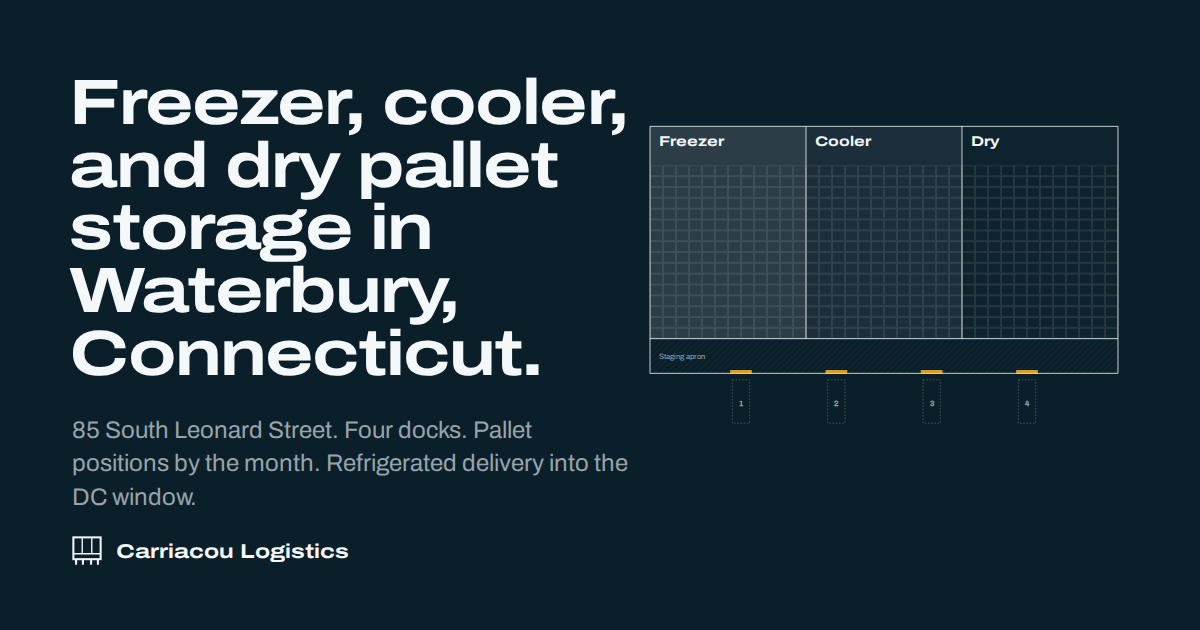
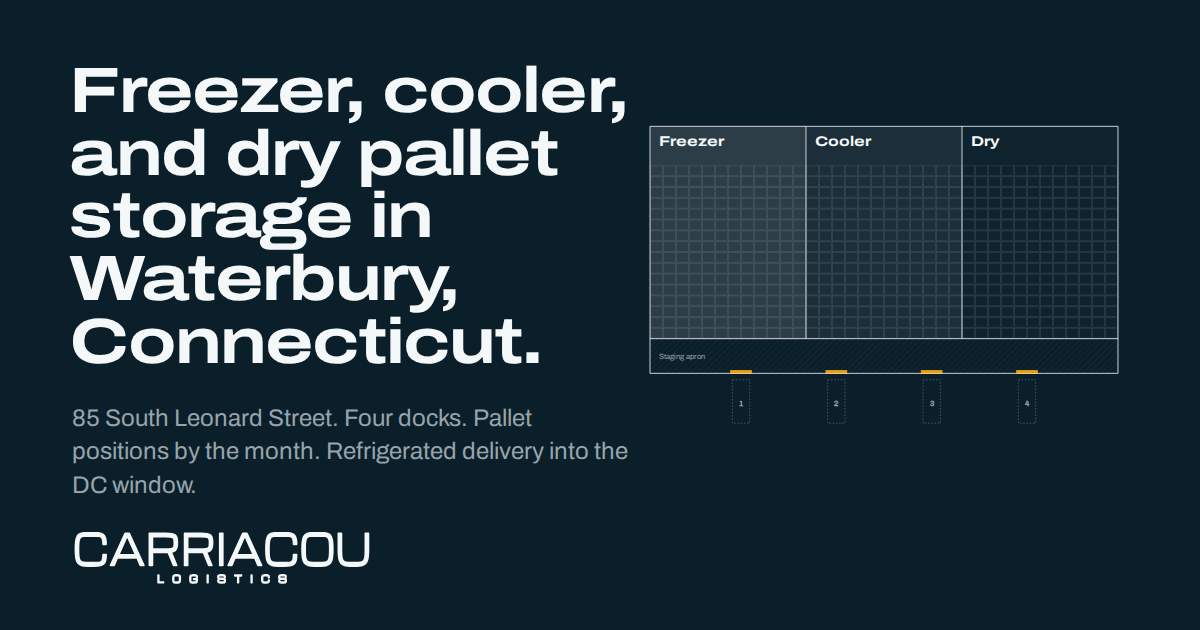
Set the Carriacou wordmark across the site
Inline the wordmark as currentColor SVG in the header, footer, 404,
confirmation page, and OG image, and derive the favicon set from its C.
Vectors are a typeset stand-in condensed to the supplied mark's
proportions until the master outlines arrive; both paths are isolated
in assets/ for a direct swap.

Claude-Session: https://claude.ai/code/session_01CXd4uA4vV5vAFBjLYiJEyh

Changed region(s): [[0.0617, 0.0905, 0.5242, 0.6032], [0.0617, 0.6333, 0.5242, 0.8143], [0.0617, 0.8444, 0.3083, 0.9349]]

diff --git a/carriacou/index.html b/carriacou/index.html
@@ -125,8 +125,9 @@ b,strong{font-weight:500}
 /* Header */
 .hdr{position:sticky;top:0;z-index:50;height:var(--hdr);background:var(--frost);border-bottom:1px solid var(--line)}
 .hdr .wrap{height:100%;display:flex;align-items:center;gap:var(--s4)}
-.wordmark{display:flex;align-items:center;gap:10px;font-size:14px;letter-spacing:-.01em;text-decoration:none;white-space:nowrap}
-.wordmark svg{width:22px;height:22px;flex:none}
+.wordmark{display:flex;align-items:center;text-decoration:none;color:var(--deep)}
+.wordmark .logo{height:20px;width:auto;display:block}
+@media(max-width:767px){.wordmark .logo{height:15px}}
 .readout{display:flex;align-items:baseline;gap:var(--s2);margin-left:auto;font-size:14px;white-space:nowrap;min-width:0}
 .readout .ro-label{color:var(--slate)}
 .readout .ro-zone{font-weight:500;min-width:6ch}
@@ -432,6 +433,7 @@ legend{padding:0;font-weight:500;margin-bottom:var(--s2)}
 .ftr-grid{display:grid;grid-template-columns:minmax(0,1fr);gap:var(--s5)}
 @media(min-width:768px){.ftr-grid{grid-template-columns:repeat(4,minmax(0,1fr));gap:var(--s5)}}
 .ftr h2{font-size:14px;font-weight:500;color:var(--galv);margin-bottom:var(--s2)}
+.ftr .logo-lockup{width:min(100%,220px);height:auto;color:var(--frost);margin-bottom:var(--s3)}
 .ftr address{font-style:normal;font-variant-numeric:tabular-nums}
 .ftr a{text-decoration:none}
 .ftr a:hover{text-decoration:underline;text-underline-offset:.18em}
@@ -486,8 +488,8 @@ legend{padding:0;font-weight:500;margin-bottom:var(--s2)}
 <header class="hdr">
   <div class="wrap">
     <a class="wordmark" href="#top" aria-label="Carriacou Logistics, home">
-      <svg viewBox="0 0 22 22" aria-hidden="true" focusable="false"><rect x="1" y="1" width="20" height="16" fill="none" stroke="currentColor" stroke-width="1.5"/><path d="M7.5 1v12M14.5 1v12M1 13h20" fill="none" stroke="currentColor" stroke-width="1"/><path d="M3 17v4M8 17v4M14 17v4M19 17v4" stroke="currentColor" stroke-width="1.5"/></svg>
-      <span>Carriacou Logistics</span>
+      <svg class="logo" viewBox="-4 -4 934 108" aria-hidden="true" focusable="false"><g fill="currentColor" stroke="currentColor" stroke-width="5" stroke-linejoin="round"><path d="M6.5 51.3V48.7Q6.5 35.4 7.5 26.4Q8.5 17.4 11.0 11.7Q13.5 6.1 17.8 3.1Q22.1 0.1 28.6 -1.0Q35.1 -2.1 44.2 -2.1H64.7Q75.2 -2.1 82.3 -0.8Q89.5 0.5 93.9 4.2Q98.3 7.9 100.3 15.2Q102.3 22.5 102.3 34.4H92.5Q92.5 25.0 91.2 19.8Q89.9 14.5 86.8 12.2Q83.6 9.8 78.3 9.3Q72.9 8.7 64.7 8.7H44.2Q37.0 8.7 32.0 9.3Q27.0 9.8 23.9 11.8Q20.8 13.8 19.1 18.1Q17.5 22.4 16.9 29.8Q16.3 37.2 16.3 48.7V51.3Q16.3 62.4 16.9 69.7Q17.5 77.0 19.1 81.3Q20.8 85.7 23.9 87.8Q27.0 90.0 32.0 90.6Q37.0 91.3 44.2 91.3H64.7Q72.9 91.3 78.3 90.8Q83.6 90.4 86.8 88.2Q89.9 85.9 91.2 80.8Q92.5 75.6 92.5 66.2H102.3Q102.3 78.2 100.3 85.4Q98.3 92.5 93.9 96.1Q89.5 99.7 82.3 100.9Q75.2 102.1 64.7 102.1H44.2Q32.8 102.1 25.4 100.1Q18.1 98.1 13.9 92.8Q9.8 87.4 8.2 77.4Q6.5 67.4 6.5 51.3Z M115.8 100.0 161.3 0.0H174.3L219.8 100.0H208.5L198.7 77.1H137.0L127.2 100.0ZM141.8 66.7H193.8L167.8 8.3Z M236.7 0.0H288.9Q300.3 0.0 307.3 1.3Q314.3 2.6 317.9 5.8Q321.5 9.0 322.8 14.5Q324.1 20.1 324.1 28.5V31.1Q324.1 38.9 322.6 44.6Q321.2 50.2 317.1 53.7Q312.9 57.2 304.9 58.6L321.8 100.0H312.1L295.5 59.5Q294.5 59.6 293.4 59.6Q292.3 59.6 291.1 59.6H246.5V100.0H236.7ZM246.5 48.8H289.6Q298.3 48.8 303.3 48.0Q308.3 47.3 310.6 45.4Q313.0 43.5 313.7 40.0Q314.3 36.6 314.3 31.1V28.5Q314.3 22.3 313.4 18.7Q312.5 15.2 309.7 13.5Q307.0 11.8 301.6 11.3Q296.1 10.8 287.0 10.8H246.5Z M346.4 0.0H398.6Q410.0 0.0 417.0 1.3Q424.0 2.6 427.6 5.8Q431.2 9.0 432.4 14.5Q433.7 20.1 433.7 28.5V31.1Q433.7 38.9 432.3 44.6Q430.8 50.2 426.7 53.7Q422.6 57.2 414.5 58.6L431.5 100.0H421.7L405.1 59.5Q404.1 59.6 403.0 59.6Q401.9 59.6 400.8 59.6H356.1V100.0H346.4ZM356.1 48.8H399.2Q407.9 48.8 412.9 48.0Q417.9 47.3 420.3 45.4Q422.6 43.5 423.3 40.0Q424.0 36.6 424.0 31.1V28.5Q424.0 22.3 423.0 18.7Q422.1 15.2 419.4 13.5Q416.6 11.8 411.2 11.3Q405.8 10.8 396.7 10.8H356.1Z M455.8 100.0V0.0H465.6V100.0Z M482.2 100.0 527.7 0.0H540.7L586.2 100.0H574.9L565.1 77.1H503.4L493.6 100.0ZM508.2 66.7H560.2L534.2 8.3Z M599.7 51.3V48.7Q599.7 35.4 600.7 26.4Q601.7 17.4 604.2 11.7Q606.7 6.1 611.0 3.1Q615.2 0.1 621.7 -1.0Q628.2 -2.1 637.4 -2.1H657.8Q668.3 -2.1 675.5 -0.8Q682.7 0.5 687.1 4.2Q691.5 7.9 693.4 15.2Q695.4 22.5 695.4 34.4H685.7Q685.7 25.0 684.4 19.8Q683.0 14.5 679.9 12.2Q676.8 9.8 671.4 9.3Q666.0 8.7 657.8 8.7H637.4Q630.1 8.7 625.1 9.3Q620.2 9.8 617.0 11.8Q613.9 13.8 612.3 18.1Q610.6 22.4 610.0 29.8Q609.4 37.2 609.4 48.7V51.3Q609.4 62.4 610.0 69.7Q610.6 77.0 612.3 81.3Q613.9 85.7 617.0 87.8Q620.2 90.0 625.1 90.6Q630.1 91.3 637.4 91.3H657.8Q666.0 91.3 671.4 90.8Q676.8 90.4 679.9 88.2Q683.0 85.9 684.4 80.8Q685.7 75.6 685.7 66.2H695.4Q695.4 78.2 693.4 85.4Q691.5 92.5 687.1 96.1Q682.7 99.7 675.5 100.9Q668.3 102.1 657.8 102.1H637.4Q626.0 102.1 618.6 100.1Q611.2 98.1 607.1 92.8Q603.0 87.4 601.3 77.4Q599.7 67.4 599.7 51.3Z M750.0 102.1Q738.6 102.1 731.2 100.1Q723.8 98.1 719.7 92.8Q715.5 87.4 713.9 77.4Q712.2 67.4 712.2 51.3V48.7Q712.2 35.4 713.3 26.4Q714.3 17.4 716.8 11.7Q719.3 6.1 723.5 3.1Q727.8 0.1 734.3 -1.0Q740.8 -2.1 750.0 -2.1H770.4Q779.6 -2.1 786.1 -1.0Q792.6 0.1 796.9 3.1Q801.2 6.1 803.7 11.7Q806.1 17.4 807.2 26.4Q808.2 35.4 808.2 48.7V51.3Q808.2 67.4 806.5 77.4Q804.9 87.4 800.7 92.8Q796.6 98.1 789.2 100.1Q781.9 102.1 770.4 102.1ZM750.0 91.3H770.4Q777.7 91.3 782.7 90.6Q787.7 90.0 790.8 87.8Q793.9 85.7 795.6 81.3Q797.2 77.0 797.8 69.7Q798.4 62.4 798.4 51.3V48.7Q798.4 37.2 797.8 29.8Q797.2 22.4 795.6 18.1Q793.9 13.8 790.8 11.8Q787.7 9.8 782.7 9.3Q777.7 8.7 770.4 8.7H750.0Q742.7 8.7 737.7 9.3Q732.8 9.8 729.6 11.8Q726.5 13.8 724.9 18.1Q723.2 22.4 722.6 29.8Q722.0 37.2 722.0 48.7V51.3Q722.0 62.4 722.6 69.7Q723.2 77.0 724.9 81.3Q726.5 85.7 729.6 87.8Q732.8 90.0 737.7 90.6Q742.7 91.3 750.0 91.3Z M863.0 102.1Q851.6 102.1 844.2 100.1Q836.8 98.1 832.7 92.8Q828.6 87.4 826.9 77.4Q825.2 67.4 825.2 51.3V0.0H835.0V51.3Q835.0 62.4 835.6 69.7Q836.2 77.0 837.9 81.3Q839.6 85.7 842.7 87.8Q845.8 90.0 850.8 90.6Q855.8 91.3 863.0 91.3H881.4Q888.6 91.3 893.6 90.6Q898.5 90.0 901.7 87.8Q904.8 85.7 906.4 81.3Q908.1 77.0 908.7 69.7Q909.3 62.4 909.3 51.3V0.0H919.1V51.3Q919.1 67.4 917.4 77.4Q915.8 87.4 911.7 92.8Q907.5 98.1 900.2 100.1Q892.8 102.1 881.4 102.1Z"/></g></svg>
+      <span class="sr">Carriacou Logistics</span>
     </a>
     <div class="readout" id="readout" aria-live="off">
       <span class="ro-label">In view</span>
@@ -966,7 +968,8 @@ legend{padding:0;font-weight:500;margin-bottom:var(--s2)}
   <div class="wrap">
     <div class="ftr-grid">
       <div>
-        <h2>Carriacou Logistics</h2>
+        <h2 class="sr">Carriacou Logistics</h2>
+        <svg class="logo-lockup" viewBox="-4 -4 934 168" aria-hidden="true" focusable="false"><g fill="currentColor" stroke="currentColor" stroke-width="5" stroke-linejoin="round"><path d="M6.5 51.3V48.7Q6.5 35.4 7.5 26.4Q8.5 17.4 11.0 11.7Q13.5 6.1 17.8 3.1Q22.1 0.1 28.6 -1.0Q35.1 -2.1 44.2 -2.1H64.7Q75.2 -2.1 82.3 -0.8Q89.5 0.5 93.9 4.2Q98.3 7.9 100.3 15.2Q102.3 22.5 102.3 34.4H92.5Q92.5 25.0 91.2 19.8Q89.9 14.5 86.8 12.2Q83.6 9.8 78.3 9.3Q72.9 8.7 64.7 8.7H44.2Q37.0 8.7 32.0 9.3Q27.0 9.8 23.9 11.8Q20.8 13.8 19.1 18.1Q17.5 22.4 16.9 29.8Q16.3 37.2 16.3 48.7V51.3Q16.3 62.4 16.9 69.7Q17.5 77.0 19.1 81.3Q20.8 85.7 23.9 87.8Q27.0 90.0 32.0 90.6Q37.0 91.3 44.2 91.3H64.7Q72.9 91.3 78.3 90.8Q83.6 90.4 86.8 88.2Q89.9 85.9 91.2 80.8Q92.5 75.6 92.5 66.2H102.3Q102.3 78.2 100.3 85.4Q98.3 92.5 93.9 96.1Q89.5 99.7 82.3 100.9Q75.2 102.1 64.7 102.1H44.2Q32.8 102.1 25.4 100.1Q18.1 98.1 13.9 92.8Q9.8 87.4 8.2 77.4Q6.5 67.4 6.5 51.3Z M115.8 100.0 161.3 0.0H174.3L219.8 100.0H208.5L198.7 77.1H137.0L127.2 100.0ZM141.8 66.7H193.8L167.8 8.3Z M236.7 0.0H288.9Q300.3 0.0 307.3 1.3Q314.3 2.6 317.9 5.8Q321.5 9.0 322.8 14.5Q324.1 20.1 324.1 28.5V31.1Q324.1 38.9 322.6 44.6Q321.2 50.2 317.1 53.7Q312.9 57.2 304.9 58.6L321.8 100.0H312.1L295.5 59.5Q294.5 59.6 293.4 59.6Q292.3 59.6 291.1 59.6H246.5V100.0H236.7ZM246.5 48.8H289.6Q298.3 48.8 303.3 48.0Q308.3 47.3 310.6 45.4Q313.0 43.5 313.7 40.0Q314.3 36.6 314.3 31.1V28.5Q314.3 22.3 313.4 18.7Q312.5 15.2 309.7 13.5Q307.0 11.8 301.6 11.3Q296.1 10.8 287.0 10.8H246.5Z M346.4 0.0H398.6Q410.0 0.0 417.0 1.3Q424.0 2.6 427.6 5.8Q431.2 9.0 432.4 14.5Q433.7 20.1 433.7 28.5V31.1Q433.7 38.9 432.3 44.6Q430.8 50.2 426.7 53.7Q422.6 57.2 414.5 58.6L431.5 100.0H421.7L405.1 59.5Q404.1 59.6 403.0 59.6Q401.9 59.6 400.8 59.6H356.1V100.0H346.4ZM356.1 48.8H399.2Q407.9 48.8 412.9 48.0Q417.9 47.3 420.3 45.4Q422.6 43.5 423.3 40.0Q424.0 36.6 424.0 31.1V28.5Q424.0 22.3 423.0 18.7Q422.1 15.2 419.4 13.5Q416.6 11.8 411.2 11.3Q405.8 10.8 396.7 10.8H356.1Z M455.8 100.0V0.0H465.6V100.0Z M482.2 100.0 527.7 0.0H540.7L586.2 100.0H574.9L565.1 77.1H503.4L493.6 100.0ZM508.2 66.7H560.2L534.2 8.3Z M599.7 51.3V48.7Q599.7 35.4 600.7 26.4Q601.7 17.4 604.2 11.7Q606.7 6.1 611.0 3.1Q615.2 0.1 621.7 -1.0Q628.2 -2.1 637.4 -2.1H657.8Q668.3 -2.1 675.5 -0.8Q682.7 0.5 687.1 4.2Q691.5 7.9 693.4 15.2Q695.4 22.5 695.4 34.4H685.7Q685.7 25.0 684.4 19.8Q683.0 14.5 679.9 12.2Q676.8 9.8 671.4 9.3Q666.0 8.7 657.8 8.7H637.4Q630.1 8.7 625.1 9.3Q620.2 9.8 617.0 11.8Q613.9 13.8 612.3 18.1Q610.6 22.4 610.0 29.8Q609.4 37.2 609.4 48.7V51.3Q609.4 62.4 610.0 69.7Q610.6 77.0 612.3 81.3Q613.9 85.7 617.0 87.8Q620.2 90.0 625.1 90.6Q630.1 91.3 637.4 91.3H657.8Q666.0 91.3 671.4 90.8Q676.8 90.4 679.9 88.2Q683.0 85.9 684.4 80.8Q685.7 75.6 685.7 66.2H695.4Q695.4 78.2 693.4 85.4Q691.5 92.5 687.1 96.1Q682.7 99.7 675.5 100.9Q668.3 102.1 657.8 102.1H637.4Q626.0 102.1 618.6 100.1Q611.2 98.1 607.1 92.8Q603.0 87.4 601.3 77.4Q599.7 67.4 599.7 51.3Z M750.0 102.1Q738.6 102.1 731.2 100.1Q723.8 98.1 719.7 92.8Q715.5 87.4 713.9 77.4Q712.2 67.4 712.2 51.3V48.7Q712.2 35.4 713.3 26.4Q714.3 17.4 716.8 11.7Q719.3 6.1 723.5 3.1Q727.8 0.1 734.3 -1.0Q740.8 -2.1 750.0 -2.1H770.4Q779.6 -2.1 786.1 -1.0Q792.6 0.1 796.9 3.1Q801.2 6.1 803.7 11.7Q806.1 17.4 807.2 26.4Q808.2 35.4 808.2 48.7V51.3Q808.2 67.4 806.5 77.4Q804.9 87.4 800.7 92.8Q796.6 98.1 789.2 100.1Q781.9 102.1 770.4 102.1ZM750.0 91.3H770.4Q777.7 91.3 782.7 90.6Q787.7 90.0 790.8 87.8Q793.9 85.7 795.6 81.3Q797.2 77.0 797.8 69.7Q798.4 62.4 798.4 51.3V48.7Q798.4 37.2 797.8 29.8Q797.2 22.4 795.6 18.1Q793.9 13.8 790.8 11.8Q787.7 9.8 782.7 9.3Q777.7 8.7 770.4 8.7H750.0Q742.7 8.7 737.7 9.3Q732.8 9.8 729.6 11.8Q726.5 13.8 724.9 18.1Q723.2 22.4 722.6 29.8Q722.0 37.2 722.0 48.7V51.3Q722.0 62.4 722.6 69.7Q723.2 77.0 724.9 81.3Q726.5 85.7 729.6 87.8Q732.8 90.0 737.7 90.6Q742.7 91.3 750.0 91.3Z M863.0 102.1Q851.6 102.1 844.2 100.1Q836.8 98.1 832.7 92.8Q828.6 87.4 826.9 77.4Q825.2 67.4 825.2 51.3V0.0H835.0V51.3Q835.0 62.4 835.6 69.7Q836.2 77.0 837.9 81.3Q839.6 85.7 842.7 87.8Q845.8 90.0 850.8 90.6Q855.8 91.3 863.0 91.3H881.4Q888.6 91.3 893.6 90.6Q898.5 90.0 901.7 87.8Q904.8 85.7 906.4 81.3Q908.1 77.0 908.7 69.7Q909.3 62.4 909.3 51.3V0.0H919.1V51.3Q919.1 67.4 917.4 77.4Q915.8 87.4 911.7 92.8Q907.5 98.1 900.2 100.1Q892.8 102.1 881.4 102.1Z"/><path d="M263.8 154.0V130.0H266.2V151.5H281.0V154.0Z M319.2 154.5Q316.4 154.5 314.7 154.0Q312.9 153.5 311.9 152.3Q310.9 151.0 310.5 148.6Q310.1 146.2 310.1 142.3V141.7Q310.1 138.5 310.4 136.3Q310.6 134.2 311.2 132.8Q311.8 131.5 312.8 130.7Q313.9 130.0 315.4 129.8Q317.0 129.5 319.2 129.5H324.1Q326.3 129.5 327.8 129.8Q329.4 130.0 330.4 130.7Q331.5 131.5 332.1 132.8Q332.7 134.2 332.9 136.3Q333.1 138.5 333.1 141.7V142.3Q333.1 146.2 332.8 148.6Q332.4 151.0 331.4 152.3Q330.4 153.5 328.6 154.0Q326.8 154.5 324.1 154.5ZM319.2 151.9H324.1Q325.8 151.9 327.0 151.8Q328.2 151.6 329.0 151.1Q329.7 150.6 330.1 149.5Q330.5 148.5 330.7 146.7Q330.8 145.0 330.8 142.3V141.7Q330.8 138.9 330.7 137.2Q330.5 135.4 330.1 134.3Q329.7 133.3 329.0 132.8Q328.2 132.4 327.0 132.2Q325.8 132.1 324.1 132.1H319.2Q317.4 132.1 316.2 132.2Q315.1 132.4 314.3 132.8Q313.6 133.3 313.2 134.3Q312.8 135.4 312.6 137.2Q312.5 138.9 312.5 141.7V142.3Q312.5 145.0 312.6 146.7Q312.8 148.5 313.2 149.5Q313.6 150.6 314.3 151.1Q315.1 151.6 316.2 151.8Q317.4 151.9 319.2 151.9Z M363.1 142.3V141.7Q363.1 138.5 363.3 136.3Q363.5 134.2 364.1 132.8Q364.7 131.5 365.8 130.7Q366.8 130.0 368.4 129.8Q369.9 129.5 372.1 129.5H376.7Q379.6 129.5 381.4 129.8Q383.2 130.1 384.1 130.9Q385.1 131.7 385.5 133.2Q385.8 134.7 385.8 137.2H383.5Q383.5 135.3 383.2 134.3Q383.0 133.2 382.3 132.8Q381.6 132.3 380.2 132.2Q378.9 132.1 376.7 132.1H372.1Q370.4 132.1 369.2 132.2Q368.0 132.4 367.2 132.8Q366.5 133.3 366.1 134.3Q365.7 135.4 365.5 137.2Q365.4 138.9 365.4 141.7V142.3Q365.4 145.0 365.5 146.7Q365.7 148.5 366.1 149.5Q366.5 150.6 367.2 151.1Q368.0 151.6 369.2 151.8Q370.4 151.9 372.1 151.9H377.5Q379.5 151.9 380.8 151.7Q382.0 151.5 382.6 150.8Q383.3 150.1 383.5 148.7Q383.7 147.2 383.7 144.8V143.9H374.7V141.4H386.0V144.8Q386.0 147.8 385.6 149.8Q385.2 151.7 384.3 152.7Q383.3 153.7 381.7 154.1Q380.0 154.5 377.5 154.5H372.1Q369.4 154.5 367.6 154.0Q365.8 153.5 364.8 152.3Q363.8 151.0 363.5 148.6Q363.1 146.2 363.1 142.3Z M417.2 154.0V130.0H419.5V154.0Z M470.9 147.1Q470.9 145.7 470.7 144.9Q470.6 144.1 470.0 143.7Q469.4 143.3 468.1 143.2Q466.8 143.1 464.7 143.0L457.9 142.9Q455.4 142.9 453.9 142.5Q452.3 142.2 451.5 141.4Q450.8 140.7 450.5 139.4Q450.2 138.2 450.2 136.3Q450.2 134.3 450.6 132.9Q451.0 131.6 451.9 130.9Q452.9 130.1 454.6 129.8Q456.3 129.5 459.1 129.5H464.3Q466.8 129.5 468.4 129.7Q470.1 129.9 471.0 130.6Q472.0 131.4 472.4 132.9Q472.9 134.5 472.9 137.2H470.5Q470.5 135.1 470.2 134.0Q469.9 132.9 469.2 132.5Q468.5 132.2 467.3 132.1Q466.1 132.1 464.3 132.1H459.2Q457.0 132.1 455.7 132.2Q454.4 132.3 453.7 132.7Q453.0 133.1 452.8 134.0Q452.6 134.8 452.6 136.3Q452.6 137.6 452.7 138.3Q452.9 139.1 453.5 139.5Q454.0 139.9 455.2 140.1Q456.3 140.2 458.3 140.2L465.6 140.4Q468.1 140.4 469.7 140.7Q471.2 141.1 472.0 141.8Q472.7 142.6 473.0 143.9Q473.2 145.1 473.2 147.1Q473.2 149.2 472.9 150.6Q472.6 152.0 471.7 152.9Q470.8 153.8 469.1 154.1Q467.5 154.5 464.7 154.5H459.0Q456.5 154.5 454.8 154.2Q453.1 153.9 452.1 153.1Q451.1 152.2 450.7 150.5Q450.2 148.9 450.2 146.0H452.6Q452.6 148.2 452.9 149.5Q453.1 150.7 453.8 151.2Q454.5 151.7 455.8 151.8Q457.1 151.9 459.0 151.9H464.6Q466.8 151.9 468.1 151.7Q469.3 151.5 469.9 151.0Q470.5 150.5 470.7 149.6Q470.9 148.6 470.9 147.1Z M512.0 154.0V132.5H502.7V130.0H523.7V132.5H514.4V154.0Z M554.0 154.0V130.0H556.3V154.0Z M587.0 142.3V141.7Q587.0 138.5 587.3 136.3Q587.5 134.2 588.1 132.8Q588.7 131.5 589.7 130.7Q590.8 130.0 592.3 129.8Q593.9 129.5 596.1 129.5H601.0Q603.5 129.5 605.2 129.8Q607.0 130.1 608.0 131.0Q609.1 131.9 609.5 133.6Q610.0 135.4 610.0 138.3H607.7Q607.7 136.0 607.4 134.7Q607.0 133.5 606.3 132.9Q605.5 132.4 604.2 132.2Q603.0 132.1 601.0 132.1H596.1Q594.3 132.1 593.1 132.2Q591.9 132.4 591.2 132.8Q590.4 133.3 590.1 134.3Q589.7 135.4 589.5 137.2Q589.4 138.9 589.4 141.7V142.3Q589.4 145.0 589.5 146.7Q589.7 148.5 590.1 149.5Q590.4 150.6 591.2 151.1Q591.9 151.6 593.1 151.8Q594.3 151.9 596.1 151.9H601.0Q603.0 151.9 604.2 151.8Q605.5 151.7 606.3 151.2Q607.0 150.6 607.4 149.4Q607.7 148.1 607.7 145.9H610.0Q610.0 148.8 609.5 150.5Q609.1 152.2 608.0 153.1Q607.0 153.9 605.2 154.2Q603.5 154.5 601.0 154.5H596.1Q593.3 154.5 591.6 154.0Q589.8 153.5 588.8 152.3Q587.8 151.0 587.4 148.6Q587.0 146.2 587.0 142.3Z M660.7 147.1Q660.7 145.7 660.5 144.9Q660.3 144.1 659.7 143.7Q659.1 143.3 657.9 143.2Q656.6 143.1 654.4 143.0L647.7 142.9Q645.1 142.9 643.6 142.5Q642.1 142.2 641.3 141.4Q640.5 140.7 640.3 139.4Q640.0 138.2 640.0 136.3Q640.0 134.3 640.4 132.9Q640.7 131.6 641.7 130.9Q642.6 130.1 644.4 129.8Q646.1 129.5 648.8 129.5H654.0Q656.5 129.5 658.2 129.7Q659.8 129.9 660.8 130.6Q661.8 131.4 662.2 132.9Q662.6 134.5 662.6 137.2H660.3Q660.3 135.1 660.0 134.0Q659.7 132.9 659.0 132.5Q658.2 132.2 657.0 132.1Q655.8 132.1 654.0 132.1H648.9Q646.8 132.1 645.5 132.2Q644.1 132.3 643.5 132.7Q642.8 133.1 642.6 134.0Q642.4 134.8 642.4 136.3Q642.4 137.6 642.5 138.3Q642.7 139.1 643.2 139.5Q643.8 139.9 644.9 140.1Q646.1 140.2 648.1 140.2L655.4 140.4Q657.9 140.4 659.4 140.7Q661.0 141.1 661.7 141.8Q662.5 142.6 662.8 143.9Q663.0 145.1 663.0 147.1Q663.0 149.2 662.7 150.6Q662.4 152.0 661.5 152.9Q660.6 153.8 658.9 154.1Q657.2 154.5 654.5 154.5H648.8Q646.3 154.5 644.6 154.2Q642.9 153.9 641.9 153.1Q640.9 152.2 640.5 150.5Q640.0 148.9 640.0 146.0H642.4Q642.4 148.2 642.6 149.5Q642.9 150.7 643.6 151.2Q644.3 151.7 645.6 151.8Q646.8 151.9 648.8 151.9H654.4Q656.6 151.9 657.8 151.7Q659.1 151.5 659.7 151.0Q660.3 150.5 660.5 149.6Q660.7 148.6 660.7 147.1Z"/></g></svg>
         <address>85 South Leonard Street<br>Waterbury, Connecticut <span class="tk" data-fact="zip">TK</span><br>Legal entity <span class="tk" data-fact="entity">TK</span></address>
         <svg class="loc" viewBox="0 0 220 160" role="img" aria-label="Locator map. Waterbury sits in west central Connecticut on I-84.">
           <path d="M28 32 L172 32 L174 86 L162 88 L128 92 L96 100 L72 108 L52 116 L40 122 L34 116 L36 100 L30 60 Z" fill="none" stroke="#98A4AB" stroke-width="1"/>

diff --git a/carriacou/assets/og-source.html b/carriacou/assets/og-source.html
@@ -7,11 +7,11 @@
 @font-face{font-family:"Archivo";src:url(../fonts/archivo-display.woff2) format("woff2");font-weight:700;font-stretch:125%}
 @font-face{font-family:"Archivo";src:url(../fonts/archivo-text.woff2) format("woff2");font-weight:400 500;font-stretch:100%}
 body{margin:0;width:1200px;height:630px;background:#0B1F2A;color:#F5F8F9;font-family:Archivo,Arial,sans-serif;overflow:hidden;position:relative}
-.copy{position:absolute;left:72px;top:72px;width:560px}
+.copy{position:absolute;left:72px;top:60px;width:560px}
 h1{margin:0;font-stretch:125%;font-weight:700;font-size:64px;line-height:.98;letter-spacing:-.03em;margin-left:-.04em}
 p{margin:28px 0 0;font-size:24px;line-height:1.4;color:#98A4AB}
-.wm{position:absolute;left:72px;bottom:64px;display:flex;align-items:center;gap:14px;font-stretch:125%;font-weight:700;font-size:20px}
-.wm svg{width:30px;height:30px}
+.wm{position:absolute;left:72px;bottom:44px;display:flex;align-items:center;gap:14px;font-stretch:125%;font-weight:700;font-size:20px}
+.wm .logo-lockup{width:300px;height:auto;color:#F5F8F9}
 .pv{position:absolute;right:56px;top:96px;width:520px;height:auto}
 .pv text{fill:#98A4AB;font-size:14px}
 .pv .zn{fill:#F5F8F9;font-stretch:125%;font-weight:700;font-size:26px}
@@ -23,8 +23,7 @@ p{margin:28px 0 0;font-size:24px;line-height:1.4;color:#98A4AB}
   <p>85 South Leonard Street. Four docks. Pallet positions by the month. Refrigerated delivery into the DC window.</p>
 </div>
 <div class="wm">
-  <svg viewBox="0 0 22 22" aria-hidden="true"><rect x="1" y="1" width="20" height="16" fill="none" stroke="#F5F8F9" stroke-width="1.5"/><path d="M7.5 1v12M14.5 1v12M1 13h20" fill="none" stroke="#F5F8F9" stroke-width="1"/><path d="M3 17v4M8 17v4M14 17v4M19 17v4" stroke="#F5F8F9" stroke-width="1.5"/></svg>
-  Carriacou Logistics
+  <svg class="logo-lockup" viewBox="-4 -4 934 168" aria-hidden="true" focusable="false"><g fill="currentColor" stroke="currentColor" stroke-width="5" stroke-linejoin="round"><path d="M6.5 51.3V48.7Q6.5 35.4 7.5 26.4Q8.5 17.4 11.0 11.7Q13.5 6.1 17.8 3.1Q22.1 0.1 28.6 -1.0Q35.1 -2.1 44.2 -2.1H64.7Q75.2 -2.1 82.3 -0.8Q89.5 0.5 93.9 4.2Q98.3 7.9 100.3 15.2Q102.3 22.5 102.3 34.4H92.5Q92.5 25.0 91.2 19.8Q89.9 14.5 86.8 12.2Q83.6 9.8 78.3 9.3Q72.9 8.7 64.7 8.7H44.2Q37.0 8.7 32.0 9.3Q27.0 9.8 23.9 11.8Q20.8 13.8 19.1 18.1Q17.5 22.4 16.9 29.8Q16.3 37.2 16.3 48.7V51.3Q16.3 62.4 16.9 69.7Q17.5 77.0 19.1 81.3Q20.8 85.7 23.9 87.8Q27.0 90.0 32.0 90.6Q37.0 91.3 44.2 91.3H64.7Q72.9 91.3 78.3 90.8Q83.6 90.4 86.8 88.2Q89.9 85.9 91.2 80.8Q92.5 75.6 92.5 66.2H102.3Q102.3 78.2 100.3 85.4Q98.3 92.5 93.9 96.1Q89.5 99.7 82.3 100.9Q75.2 102.1 64.7 102.1H44.2Q32.8 102.1 25.4 100.1Q18.1 98.1 13.9 92.8Q9.8 87.4 8.2 77.4Q6.5 67.4 6.5 51.3Z M115.8 100.0 161.3 0.0H174.3L219.8 100.0H208.5L198.7 77.1H137.0L127.2 100.0ZM141.8 66.7H193.8L167.8 8.3Z M236.7 0.0H288.9Q300.3 0.0 307.3 1.3Q314.3 2.6 317.9 5.8Q321.5 9.0 322.8 14.5Q324.1 20.1 324.1 28.5V31.1Q324.1 38.9 322.6 44.6Q321.2 50.2 317.1 53.7Q312.9 57.2 304.9 58.6L321.8 100.0H312.1L295.5 59.5Q294.5 59.6 293.4 59.6Q292.3 59.6 291.1 59.6H246.5V100.0H236.7ZM246.5 48.8H289.6Q298.3 48.8 303.3 48.0Q308.3 47.3 310.6 45.4Q313.0 43.5 313.7 40.0Q314.3 36.6 314.3 31.1V28.5Q314.3 22.3 313.4 18.7Q312.5 15.2 309.7 13.5Q307.0 11.8 301.6 11.3Q296.1 10.8 287.0 10.8H246.5Z M346.4 0.0H398.6Q410.0 0.0 417.0 1.3Q424.0 2.6 427.6 5.8Q431.2 9.0 432.4 14.5Q433.7 20.1 433.7 28.5V31.1Q433.7 38.9 432.3 44.6Q430.8 50.2 426.7 53.7Q422.6 57.2 414.5 58.6L431.5 100.0H421.7L405.1 59.5Q404.1 59.6 403.0 59.6Q401.9 59.6 400.8 59.6H356.1V100.0H346.4ZM356.1 48.8H399.2Q407.9 48.8 412.9 48.0Q417.9 47.3 420.3 45.4Q422.6 43.5 423.3 40.0Q424.0 36.6 424.0 31.1V28.5Q424.0 22.3 423.0 18.7Q422.1 15.2 419.4 13.5Q416.6 11.8 411.2 11.3Q405.8 10.8 396.7 10.8H356.1Z M455.8 100.0V0.0H465.6V100.0Z M482.2 100.0 527.7 0.0H540.7L586.2 100.0H574.9L565.1 77.1H503.4L493.6 100.0ZM508.2 66.7H560.2L534.2 8.3Z M599.7 51.3V48.7Q599.7 35.4 600.7 26.4Q601.7 17.4 604.2 11.7Q606.7 6.1 611.0 3.1Q615.2 0.1 621.7 -1.0Q628.2 -2.1 637.4 -2.1H657.8Q668.3 -2.1 675.5 -0.8Q682.7 0.5 687.1 4.2Q691.5 7.9 693.4 15.2Q695.4 22.5 695.4 34.4H685.7Q685.7 25.0 684.4 19.8Q683.0 14.5 679.9 12.2Q676.8 9.8 671.4 9.3Q666.0 8.7 657.8 8.7H637.4Q630.1 8.7 625.1 9.3Q620.2 9.8 617.0 11.8Q613.9 13.8 612.3 18.1Q610.6 22.4 610.0 29.8Q609.4 37.2 609.4 48.7V51.3Q609.4 62.4 610.0 69.7Q610.6 77.0 612.3 81.3Q613.9 85.7 617.0 87.8Q620.2 90.0 625.1 90.6Q630.1 91.3 637.4 91.3H657.8Q666.0 91.3 671.4 90.8Q676.8 90.4 679.9 88.2Q683.0 85.9 684.4 80.8Q685.7 75.6 685.7 66.2H695.4Q695.4 78.2 693.4 85.4Q691.5 92.5 687.1 96.1Q682.7 99.7 675.5 100.9Q668.3 102.1 657.8 102.1H637.4Q626.0 102.1 618.6 100.1Q611.2 98.1 607.1 92.8Q603.0 87.4 601.3 77.4Q599.7 67.4 599.7 51.3Z M750.0 102.1Q738.6 102.1 731.2 100.1Q723.8 98.1 719.7 92.8Q715.5 87.4 713.9 77.4Q712.2 67.4 712.2 51.3V48.7Q712.2 35.4 713.3 26.4Q714.3 17.4 716.8 11.7Q719.3 6.1 723.5 3.1Q727.8 0.1 734.3 -1.0Q740.8 -2.1 750.0 -2.1H770.4Q779.6 -2.1 786.1 -1.0Q792.6 0.1 796.9 3.1Q801.2 6.1 803.7 11.7Q806.1 17.4 807.2 26.4Q808.2 35.4 808.2 48.7V51.3Q808.2 67.4 806.5 77.4Q804.9 87.4 800.7 92.8Q796.6 98.1 789.2 100.1Q781.9 102.1 770.4 102.1ZM750.0 91.3H770.4Q777.7 91.3 782.7 90.6Q787.7 90.0 790.8 87.8Q793.9 85.7 795.6 81.3Q797.2 77.0 797.8 69.7Q798.4 62.4 798.4 51.3V48.7Q798.4 37.2 797.8 29.8Q797.2 22.4 795.6 18.1Q793.9 13.8 790.8 11.8Q787.7 9.8 782.7 9.3Q777.7 8.7 770.4 8.7H750.0Q742.7 8.7 737.7 9.3Q732.8 9.8 729.6 11.8Q726.5 13.8 724.9 18.1Q723.2 22.4 722.6 29.8Q722.0 37.2 722.0 48.7V51.3Q722.0 62.4 722.6 69.7Q723.2 77.0 724.9 81.3Q726.5 85.7 729.6 87.8Q732.8 90.0 737.7 90.6Q742.7 91.3 750.0 91.3Z M863.0 102.1Q851.6 102.1 844.2 100.1Q836.8 98.1 832.7 92.8Q828.6 87.4 826.9 77.4Q825.2 67.4 825.2 51.3V0.0H835.0V51.3Q835.0 62.4 835.6 69.7Q836.2 77.0 837.9 81.3Q839.6 85.7 842.7 87.8Q845.8 90.0 850.8 90.6Q855.8 91.3 863.0 91.3H881.4Q888.6 91.3 893.6 90.6Q898.5 90.0 901.7 87.8Q904.8 85.7 906.4 81.3Q908.1 77.0 908.7 69.7Q909.3 62.4 909.3 51.3V0.0H919.1V51.3Q919.1 67.4 917.4 77.4Q915.8 87.4 911.7 92.8Q907.5 98.1 900.2 100.1Q892.8 102.1 881.4 102.1Z"/><path d="M263.8 154.0V130.0H266.2V151.5H281.0V154.0Z M319.2 154.5Q316.4 154.5 314.7 154.0Q312.9 153.5 311.9 152.3Q310.9 151.0 310.5 148.6Q310.1 146.2 310.1 142.3V141.7Q310.1 138.5 310.4 136.3Q310.6 134.2 311.2 132.8Q311.8 131.5 312.8 130.7Q313.9 130.0 315.4 129.8Q317.0 129.5 319.2 129.5H324.1Q326.3 129.5 327.8 129.8Q329.4 130.0 330.4 130.7Q331.5 131.5 332.1 132.8Q332.7 134.2 332.9 136.3Q333.1 138.5 333.1 141.7V142.3Q333.1 146.2 332.8 148.6Q332.4 151.0 331.4 152.3Q330.4 153.5 328.6 154.0Q326.8 154.5 324.1 154.5ZM319.2 151.9H324.1Q325.8 151.9 327.0 151.8Q328.2 151.6 329.0 151.1Q329.7 150.6 330.1 149.5Q330.5 148.5 330.7 146.7Q330.8 145.0 330.8 142.3V141.7Q330.8 138.9 330.7 137.2Q330.5 135.4 330.1 134.3Q329.7 133.3 329.0 132.8Q328.2 132.4 327.0 132.2Q325.8 132.1 324.1 132.1H319.2Q317.4 132.1 316.2 132.2Q315.1 132.4 314.3 132.8Q313.6 133.3 313.2 134.3Q312.8 135.4 312.6 137.2Q312.5 138.9 312.5 141.7V142.3Q312.5 145.0 312.6 146.7Q312.8 148.5 313.2 149.5Q313.6 150.6 314.3 151.1Q315.1 151.6 316.2 151.8Q317.4 151.9 319.2 151.9Z M363.1 142.3V141.7Q363.1 138.5 363.3 136.3Q363.5 134.2 364.1 132.8Q364.7 131.5 365.8 130.7Q366.8 130.0 368.4 129.8Q369.9 129.5 372.1 129.5H376.7Q379.6 129.5 381.4 129.8Q383.2 130.1 384.1 130.9Q385.1 131.7 385.5 133.2Q385.8 134.7 385.8 137.2H383.5Q383.5 135.3 383.2 134.3Q383.0 133.2 382.3 132.8Q381.6 132.3 380.2 132.2Q378.9 132.1 376.7 132.1H372.1Q370.4 132.1 369.2 132.2Q368.0 132.4 367.2 132.8Q366.5 133.3 366.1 134.3Q365.7 135.4 365.5 137.2Q365.4 138.9 365.4 141.7V142.3Q365.4 145.0 365.5 146.7Q365.7 148.5 366.1 149.5Q366.5 150.6 367.2 151.1Q368.0 151.6 369.2 151.8Q370.4 151.9 372.1 151.9H377.5Q379.5 151.9 380.8 151.7Q382.0 151.5 382.6 150.8Q383.3 150.1 383.5 148.7Q383.7 147.2 383.7 144.8V143.9H374.7V141.4H386.0V144.8Q386.0 147.8 385.6 149.8Q385.2 151.7 384.3 152.7Q383.3 153.7 381.7 154.1Q380.0 154.5 377.5 154.5H372.1Q369.4 154.5 367.6 154.0Q365.8 153.5 364.8 152.3Q363.8 151.0 363.5 148.6Q363.1 146.2 363.1 142.3Z M417.2 154.0V130.0H419.5V154.0Z M470.9 147.1Q470.9 145.7 470.7 144.9Q470.6 144.1 470.0 143.7Q469.4 143.3 468.1 143.2Q466.8 143.1 464.7 143.0L457.9 142.9Q455.4 142.9 453.9 142.5Q452.3 142.2 451.5 141.4Q450.8 140.7 450.5 139.4Q450.2 138.2 450.2 136.3Q450.2 134.3 450.6 132.9Q451.0 131.6 451.9 130.9Q452.9 130.1 454.6 129.8Q456.3 129.5 459.1 129.5H464.3Q466.8 129.5 468.4 129.7Q470.1 129.9 471.0 130.6Q472.0 131.4 472.4 132.9Q472.9 134.5 472.9 137.2H470.5Q470.5 135.1 470.2 134.0Q469.9 132.9 469.2 132.5Q468.5 132.2 467.3 132.1Q466.1 132.1 464.3 132.1H459.2Q457.0 132.1 455.7 132.2Q454.4 132.3 453.7 132.7Q453.0 133.1 452.8 134.0Q452.6 134.8 452.6 136.3Q452.6 137.6 452.7 138.3Q452.9 139.1 453.5 139.5Q454.0 139.9 455.2 140.1Q456.3 140.2 458.3 140.2L465.6 140.4Q468.1 140.4 469.7 140.7Q471.2 141.1 472.0 141.8Q472.7 142.6 473.0 143.9Q473.2 145.1 473.2 147.1Q473.2 149.2 472.9 150.6Q472.6 152.0 471.7 152.9Q470.8 153.8 469.1 154.1Q467.5 154.5 464.7 154.5H459.0Q456.5 154.5 454.8 154.2Q453.1 153.9 452.1 153.1Q451.1 152.2 450.7 150.5Q450.2 148.9 450.2 146.0H452.6Q452.6 148.2 452.9 149.5Q453.1 150.7 453.8 151.2Q454.5 151.7 455.8 151.8Q457.1 151.9 459.0 151.9H464.6Q466.8 151.9 468.1 151.7Q469.3 151.5 469.9 151.0Q470.5 150.5 470.7 149.6Q470.9 148.6 470.9 147.1Z M512.0 154.0V132.5H502.7V130.0H523.7V132.5H514.4V154.0Z M554.0 154.0V130.0H556.3V154.0Z M587.0 142.3V141.7Q587.0 138.5 587.3 136.3Q587.5 134.2 588.1 132.8Q588.7 131.5 589.7 130.7Q590.8 130.0 592.3 129.8Q593.9 129.5 596.1 129.5H601.0Q603.5 129.5 605.2 129.8Q607.0 130.1 608.0 131.0Q609.1 131.9 609.5 133.6Q610.0 135.4 610.0 138.3H607.7Q607.7 136.0 607.4 134.7Q607.0 133.5 606.3 132.9Q605.5 132.4 604.2 132.2Q603.0 132.1 601.0 132.1H596.1Q594.3 132.1 593.1 132.2Q591.9 132.4 591.2 132.8Q590.4 133.3 590.1 134.3Q589.7 135.4 589.5 137.2Q589.4 138.9 589.4 141.7V142.3Q589.4 145.0 589.5 146.7Q589.7 148.5 590.1 149.5Q590.4 150.6 591.2 151.1Q591.9 151.6 593.1 151.8Q594.3 151.9 596.1 151.9H601.0Q603.0 151.9 604.2 151.8Q605.5 151.7 606.3 151.2Q607.0 150.6 607.4 149.4Q607.7 148.1 607.7 145.9H610.0Q610.0 148.8 609.5 150.5Q609.1 152.2 608.0 153.1Q607.0 153.9 605.2 154.2Q603.5 154.5 601.0 154.5H596.1Q593.3 154.5 591.6 154.0Q589.8 153.5 588.8 152.3Q587.8 151.0 587.4 148.6Q587.0 146.2 587.0 142.3Z M660.7 147.1Q660.7 145.7 660.5 144.9Q660.3 144.1 659.7 143.7Q659.1 143.3 657.9 143.2Q656.6 143.1 654.4 143.0L647.7 142.9Q645.1 142.9 643.6 142.5Q642.1 142.2 641.3 141.4Q640.5 140.7 640.3 139.4Q640.0 138.2 640.0 136.3Q640.0 134.3 640.4 132.9Q640.7 131.6 641.7 130.9Q642.6 130.1 644.4 129.8Q646.1 129.5 648.8 129.5H654.0Q656.5 129.5 658.2 129.7Q659.8 129.9 660.8 130.6Q661.8 131.4 662.2 132.9Q662.6 134.5 662.6 137.2H660.3Q660.3 135.1 660.0 134.0Q659.7 132.9 659.0 132.5Q658.2 132.2 657.0 132.1Q655.8 132.1 654.0 132.1H648.9Q646.8 132.1 645.5 132.2Q644.1 132.3 643.5 132.7Q642.8 133.1 642.6 134.0Q642.4 134.8 642.4 136.3Q642.4 137.6 642.5 138.3Q642.7 139.1 643.2 139.5Q643.8 139.9 644.9 140.1Q646.1 140.2 648.1 140.2L655.4 140.4Q657.9 140.4 659.4 140.7Q661.0 141.1 661.7 141.8Q662.5 142.6 662.8 143.9Q663.0 145.1 663.0 147.1Q663.0 149.2 662.7 150.6Q662.4 152.0 661.5 152.9Q660.6 153.8 658.9 154.1Q657.2 154.5 654.5 154.5H648.8Q646.3 154.5 644.6 154.2Q642.9 153.9 641.9 153.1Q640.9 152.2 640.5 150.5Q640.0 148.9 640.0 146.0H642.4Q642.4 148.2 642.6 149.5Q642.9 150.7 643.6 151.2Q644.3 151.7 645.6 151.8Q646.8 151.9 648.8 151.9H654.4Q656.6 151.9 657.8 151.7Q659.1 151.5 659.7 151.0Q660.3 150.5 660.5 149.6Q660.7 148.6 660.7 147.1Z"/></g></svg>
 </div>
 <svg class="pv" viewBox="0 0 960 620">
   <defs>

diff --git a/carriacou/404.html b/carriacou/404.html
@@ -20,7 +20,8 @@ body{margin:0;background:var(--frost);color:var(--deep);font-family:"Archivo","A
 :focus-visible{outline:2px solid var(--amber);outline-offset:3px}
 .hdr{height:56px;border-bottom:1px solid var(--line);display:flex;align-items:center;padding:0 24px}
 .wordmark{display:flex;align-items:center;gap:10px;font-family:"Archivo","Archivo Fallback Wide",Arial,sans-serif;font-stretch:125%;font-weight:700;font-size:14px;text-decoration:none;color:inherit}
-.wordmark svg{width:22px;height:22px}
+.wordmark .logo{height:20px;width:auto;display:block}
+.sr{position:absolute;width:1px;height:1px;overflow:hidden;clip:rect(0,0,0,0);white-space:nowrap}
 main{display:grid;gap:48px;align-items:center;max-width:1280px;width:100%;margin:0 auto;padding:48px 24px 96px}
 @media(min-width:900px){main{grid-template-columns:minmax(0,5fr) minmax(0,7fr);padding:64px 48px 128px}}
 h1{font-family:"Archivo","Archivo Fallback Wide",Arial,sans-serif;font-stretch:125%;font-weight:700;font-size:clamp(36px,5vw,72px);line-height:1;letter-spacing:-.03em;margin:0 0 24px -.04em;text-wrap:balance}
@@ -37,8 +38,8 @@ svg.pv{width:100%;height:auto;font-family:inherit;font-size:13px}
 <body>
 <header class="hdr">
   <a class="wordmark" href="./" aria-label="Carriacou Logistics, home">
-    <svg viewBox="0 0 22 22" aria-hidden="true"><rect x="1" y="1" width="20" height="16" fill="none" stroke="currentColor" stroke-width="1.5"/><path d="M7.5 1v12M14.5 1v12M1 13h20" fill="none" stroke="currentColor" stroke-width="1"/><path d="M3 17v4M8 17v4M14 17v4M19 17v4" stroke="currentColor" stroke-width="1.5"/></svg>
-    <span>Carriacou Logistics</span>
+    <svg class="logo" viewBox="-4 -4 934 108" aria-hidden="true" focusable="false"><g fill="currentColor" stroke="currentColor" stroke-width="5" stroke-linejoin="round"><path d="M6.5 51.3V48.7Q6.5 35.4 7.5 26.4Q8.5 17.4 11.0 11.7Q13.5 6.1 17.8 3.1Q22.1 0.1 28.6 -1.0Q35.1 -2.1 44.2 -2.1H64.7Q75.2 -2.1 82.3 -0.8Q89.5 0.5 93.9 4.2Q98.3 7.9 100.3 15.2Q102.3 22.5 102.3 34.4H92.5Q92.5 25.0 91.2 19.8Q89.9 14.5 86.8 12.2Q83.6 9.8 78.3 9.3Q72.9 8.7 64.7 8.7H44.2Q37.0 8.7 32.0 9.3Q27.0 9.8 23.9 11.8Q20.8 13.8 19.1 18.1Q17.5 22.4 16.9 29.8Q16.3 37.2 16.3 48.7V51.3Q16.3 62.4 16.9 69.7Q17.5 77.0 19.1 81.3Q20.8 85.7 23.9 87.8Q27.0 90.0 32.0 90.6Q37.0 91.3 44.2 91.3H64.7Q72.9 91.3 78.3 90.8Q83.6 90.4 86.8 88.2Q89.9 85.9 91.2 80.8Q92.5 75.6 92.5 66.2H102.3Q102.3 78.2 100.3 85.4Q98.3 92.5 93.9 96.1Q89.5 99.7 82.3 100.9Q75.2 102.1 64.7 102.1H44.2Q32.8 102.1 25.4 100.1Q18.1 98.1 13.9 92.8Q9.8 87.4 8.2 77.4Q6.5 67.4 6.5 51.3Z M115.8 100.0 161.3 0.0H174.3L219.8 100.0H208.5L198.7 77.1H137.0L127.2 100.0ZM141.8 66.7H193.8L167.8 8.3Z M236.7 0.0H288.9Q300.3 0.0 307.3 1.3Q314.3 2.6 317.9 5.8Q321.5 9.0 322.8 14.5Q324.1 20.1 324.1 28.5V31.1Q324.1 38.9 322.6 44.6Q321.2 50.2 317.1 53.7Q312.9 57.2 304.9 58.6L321.8 100.0H312.1L295.5 59.5Q294.5 59.6 293.4 59.6Q292.3 59.6 291.1 59.6H246.5V100.0H236.7ZM246.5 48.8H289.6Q298.3 48.8 303.3 48.0Q308.3 47.3 310.6 45.4Q313.0 43.5 313.7 40.0Q314.3 36.6 314.3 31.1V28.5Q314.3 22.3 313.4 18.7Q312.5 15.2 309.7 13.5Q307.0 11.8 301.6 11.3Q296.1 10.8 287.0 10.8H246.5Z M346.4 0.0H398.6Q410.0 0.0 417.0 1.3Q424.0 2.6 427.6 5.8Q431.2 9.0 432.4 14.5Q433.7 20.1 433.7 28.5V31.1Q433.7 38.9 432.3 44.6Q430.8 50.2 426.7 53.7Q422.6 57.2 414.5 58.6L431.5 100.0H421.7L405.1 59.5Q404.1 59.6 403.0 59.6Q401.9 59.6 400.8 59.6H356.1V100.0H346.4ZM356.1 48.8H399.2Q407.9 48.8 412.9 48.0Q417.9 47.3 420.3 45.4Q422.6 43.5 423.3 40.0Q424.0 36.6 424.0 31.1V28.5Q424.0 22.3 423.0 18.7Q422.1 15.2 419.4 13.5Q416.6 11.8 411.2 11.3Q405.8 10.8 396.7 10.8H356.1Z M455.8 100.0V0.0H465.6V100.0Z M482.2 100.0 527.7 0.0H540.7L586.2 100.0H574.9L565.1 77.1H503.4L493.6 100.0ZM508.2 66.7H560.2L534.2 8.3Z M599.7 51.3V48.7Q599.7 35.4 600.7 26.4Q601.7 17.4 604.2 11.7Q606.7 6.1 611.0 3.1Q615.2 0.1 621.7 -1.0Q628.2 -2.1 637.4 -2.1H657.8Q668.3 -2.1 675.5 -0.8Q682.7 0.5 687.1 4.2Q691.5 7.9 693.4 15.2Q695.4 22.5 695.4 34.4H685.7Q685.7 25.0 684.4 19.8Q683.0 14.5 679.9 12.2Q676.8 9.8 671.4 9.3Q666.0 8.7 657.8 8.7H637.4Q630.1 8.7 625.1 9.3Q620.2 9.8 617.0 11.8Q613.9 13.8 612.3 18.1Q610.6 22.4 610.0 29.8Q609.4 37.2 609.4 48.7V51.3Q609.4 62.4 610.0 69.7Q610.6 77.0 612.3 81.3Q613.9 85.7 617.0 87.8Q620.2 90.0 625.1 90.6Q630.1 91.3 637.4 91.3H657.8Q666.0 91.3 671.4 90.8Q676.8 90.4 679.9 88.2Q683.0 85.9 684.4 80.8Q685.7 75.6 685.7 66.2H695.4Q695.4 78.2 693.4 85.4Q691.5 92.5 687.1 96.1Q682.7 99.7 675.5 100.9Q668.3 102.1 657.8 102.1H637.4Q626.0 102.1 618.6 100.1Q611.2 98.1 607.1 92.8Q603.0 87.4 601.3 77.4Q599.7 67.4 599.7 51.3Z M750.0 102.1Q738.6 102.1 731.2 100.1Q723.8 98.1 719.7 92.8Q715.5 87.4 713.9 77.4Q712.2 67.4 712.2 51.3V48.7Q712.2 35.4 713.3 26.4Q714.3 17.4 716.8 11.7Q719.3 6.1 723.5 3.1Q727.8 0.1 734.3 -1.0Q740.8 -2.1 750.0 -2.1H770.4Q779.6 -2.1 786.1 -1.0Q792.6 0.1 796.9 3.1Q801.2 6.1 803.7 11.7Q806.1 17.4 807.2 26.4Q808.2 35.4 808.2 48.7V51.3Q808.2 67.4 806.5 77.4Q804.9 87.4 800.7 92.8Q796.6 98.1 789.2 100.1Q781.9 102.1 770.4 102.1ZM750.0 91.3H770.4Q777.7 91.3 782.7 90.6Q787.7 90.0 790.8 87.8Q793.9 85.7 795.6 81.3Q797.2 77.0 797.8 69.7Q798.4 62.4 798.4 51.3V48.7Q798.4 37.2 797.8 29.8Q797.2 22.4 795.6 18.1Q793.9 13.8 790.8 11.8Q787.7 9.8 782.7 9.3Q777.7 8.7 770.4 8.7H750.0Q742.7 8.7 737.7 9.3Q732.8 9.8 729.6 11.8Q726.5 13.8 724.9 18.1Q723.2 22.4 722.6 29.8Q722.0 37.2 722.0 48.7V51.3Q722.0 62.4 722.6 69.7Q723.2 77.0 724.9 81.3Q726.5 85.7 729.6 87.8Q732.8 90.0 737.7 90.6Q742.7 91.3 750.0 91.3Z M863.0 102.1Q851.6 102.1 844.2 100.1Q836.8 98.1 832.7 92.8Q828.6 87.4 826.9 77.4Q825.2 67.4 825.2 51.3V0.0H835.0V51.3Q835.0 62.4 835.6 69.7Q836.2 77.0 837.9 81.3Q839.6 85.7 842.7 87.8Q845.8 90.0 850.8 90.6Q855.8 91.3 863.0 91.3H881.4Q888.6 91.3 893.6 90.6Q898.5 90.0 901.7 87.8Q904.8 85.7 906.4 81.3Q908.1 77.0 908.7 69.7Q909.3 62.4 909.3 51.3V0.0H919.1V51.3Q919.1 67.4 917.4 77.4Q915.8 87.4 911.7 92.8Q907.5 98.1 900.2 100.1Q892.8 102.1 881.4 102.1Z"/></g></svg>
+    <span class="sr">Carriacou Logistics</span>
   </a>
 </header>
 <main>

diff --git a/carriacou/quote-received/index.html b/carriacou/quote-received/index.html
@@ -21,7 +21,8 @@ body{margin:0;background:var(--frost);color:var(--deep);font-family:"Archivo","A
 :focus-visible{outline:2px solid var(--amber);outline-offset:3px}
 .hdr{height:56px;border-bottom:1px solid var(--line);display:flex;align-items:center;padding:0 24px}
 .wordmark{display:flex;align-items:center;gap:10px;font-family:"Archivo","Archivo Fallback Wide",Arial,sans-serif;font-stretch:125%;font-weight:700;font-size:14px;text-decoration:none;color:inherit}
-.wordmark svg{width:22px;height:22px}
+.wordmark .logo{height:20px;width:auto;display:block}
+.sr{position:absolute;width:1px;height:1px;overflow:hidden;clip:rect(0,0,0,0);white-space:nowrap}
 main{max-width:1280px;width:100%;margin:0 auto;padding:64px 24px 128px}
 @media(min-width:768px){main{padding:96px 48px 160px}}
 .box{max-width:60ch;border:1.5px solid var(--deep);padding:32px}
@@ -38,8 +39,8 @@ a.num{font-variant-numeric:tabular-nums;color:inherit;text-underline-offset:.18e
 <body>
 <header class="hdr">
   <a class="wordmark" href="../" aria-label="Carriacou Logistics, home">
-    <svg viewBox="0 0 22 22" aria-hidden="true"><rect x="1" y="1" width="20" height="16" fill="none" stroke="currentColor" stroke-width="1.5"/><path d="M7.5 1v12M14.5 1v12M1 13h20" fill="none" stroke="currentColor" stroke-width="1"/><path d="M3 17v4M8 17v4M14 17v4M19 17v4" stroke="currentColor" stroke-width="1.5"/></svg>
-    <span>Carriacou Logistics</span>
+    <svg class="logo" viewBox="-4 -4 934 108" aria-hidden="true" focusable="false"><g fill="currentColor" stroke="currentColor" stroke-width="5" stroke-linejoin="round"><path d="M6.5 51.3V48.7Q6.5 35.4 7.5 26.4Q8.5 17.4 11.0 11.7Q13.5 6.1 17.8 3.1Q22.1 0.1 28.6 -1.0Q35.1 -2.1 44.2 -2.1H64.7Q75.2 -2.1 82.3 -0.8Q89.5 0.5 93.9 4.2Q98.3 7.9 100.3 15.2Q102.3 22.5 102.3 34.4H92.5Q92.5 25.0 91.2 19.8Q89.9 14.5 86.8 12.2Q83.6 9.8 78.3 9.3Q72.9 8.7 64.7 8.7H44.2Q37.0 8.7 32.0 9.3Q27.0 9.8 23.9 11.8Q20.8 13.8 19.1 18.1Q17.5 22.4 16.9 29.8Q16.3 37.2 16.3 48.7V51.3Q16.3 62.4 16.9 69.7Q17.5 77.0 19.1 81.3Q20.8 85.7 23.9 87.8Q27.0 90.0 32.0 90.6Q37.0 91.3 44.2 91.3H64.7Q72.9 91.3 78.3 90.8Q83.6 90.4 86.8 88.2Q89.9 85.9 91.2 80.8Q92.5 75.6 92.5 66.2H102.3Q102.3 78.2 100.3 85.4Q98.3 92.5 93.9 96.1Q89.5 99.7 82.3 100.9Q75.2 102.1 64.7 102.1H44.2Q32.8 102.1 25.4 100.1Q18.1 98.1 13.9 92.8Q9.8 87.4 8.2 77.4Q6.5 67.4 6.5 51.3Z M115.8 100.0 161.3 0.0H174.3L219.8 100.0H208.5L198.7 77.1H137.0L127.2 100.0ZM141.8 66.7H193.8L167.8 8.3Z M236.7 0.0H288.9Q300.3 0.0 307.3 1.3Q314.3 2.6 317.9 5.8Q321.5 9.0 322.8 14.5Q324.1 20.1 324.1 28.5V31.1Q324.1 38.9 322.6 44.6Q321.2 50.2 317.1 53.7Q312.9 57.2 304.9 58.6L321.8 100.0H312.1L295.5 59.5Q294.5 59.6 293.4 59.6Q292.3 59.6 291.1 59.6H246.5V100.0H236.7ZM246.5 48.8H289.6Q298.3 48.8 303.3 48.0Q308.3 47.3 310.6 45.4Q313.0 43.5 313.7 40.0Q314.3 36.6 314.3 31.1V28.5Q314.3 22.3 313.4 18.7Q312.5 15.2 309.7 13.5Q307.0 11.8 301.6 11.3Q296.1 10.8 287.0 10.8H246.5Z M346.4 0.0H398.6Q410.0 0.0 417.0 1.3Q424.0 2.6 427.6 5.8Q431.2 9.0 432.4 14.5Q433.7 20.1 433.7 28.5V31.1Q433.7 38.9 432.3 44.6Q430.8 50.2 426.7 53.7Q422.6 57.2 414.5 58.6L431.5 100.0H421.7L405.1 59.5Q404.1 59.6 403.0 59.6Q401.9 59.6 400.8 59.6H356.1V100.0H346.4ZM356.1 48.8H399.2Q407.9 48.8 412.9 48.0Q417.9 47.3 420.3 45.4Q422.6 43.5 423.3 40.0Q424.0 36.6 424.0 31.1V28.5Q424.0 22.3 423.0 18.7Q422.1 15.2 419.4 13.5Q416.6 11.8 411.2 11.3Q405.8 10.8 396.7 10.8H356.1Z M455.8 100.0V0.0H465.6V100.0Z M482.2 100.0 527.7 0.0H540.7L586.2 100.0H574.9L565.1 77.1H503.4L493.6 100.0ZM508.2 66.7H560.2L534.2 8.3Z M599.7 51.3V48.7Q599.7 35.4 600.7 26.4Q601.7 17.4 604.2 11.7Q606.7 6.1 611.0 3.1Q615.2 0.1 621.7 -1.0Q628.2 -2.1 637.4 -2.1H657.8Q668.3 -2.1 675.5 -0.8Q682.7 0.5 687.1 4.2Q691.5 7.9 693.4 15.2Q695.4 22.5 695.4 34.4H685.7Q685.7 25.0 684.4 19.8Q683.0 14.5 679.9 12.2Q676.8 9.8 671.4 9.3Q666.0 8.7 657.8 8.7H637.4Q630.1 8.7 625.1 9.3Q620.2 9.8 617.0 11.8Q613.9 13.8 612.3 18.1Q610.6 22.4 610.0 29.8Q609.4 37.2 609.4 48.7V51.3Q609.4 62.4 610.0 69.7Q610.6 77.0 612.3 81.3Q613.9 85.7 617.0 87.8Q620.2 90.0 625.1 90.6Q630.1 91.3 637.4 91.3H657.8Q666.0 91.3 671.4 90.8Q676.8 90.4 679.9 88.2Q683.0 85.9 684.4 80.8Q685.7 75.6 685.7 66.2H695.4Q695.4 78.2 693.4 85.4Q691.5 92.5 687.1 96.1Q682.7 99.7 675.5 100.9Q668.3 102.1 657.8 102.1H637.4Q626.0 102.1 618.6 100.1Q611.2 98.1 607.1 92.8Q603.0 87.4 601.3 77.4Q599.7 67.4 599.7 51.3Z M750.0 102.1Q738.6 102.1 731.2 100.1Q723.8 98.1 719.7 92.8Q715.5 87.4 713.9 77.4Q712.2 67.4 712.2 51.3V48.7Q712.2 35.4 713.3 26.4Q714.3 17.4 716.8 11.7Q719.3 6.1 723.5 3.1Q727.8 0.1 734.3 -1.0Q740.8 -2.1 750.0 -2.1H770.4Q779.6 -2.1 786.1 -1.0Q792.6 0.1 796.9 3.1Q801.2 6.1 803.7 11.7Q806.1 17.4 807.2 26.4Q808.2 35.4 808.2 48.7V51.3Q808.2 67.4 806.5 77.4Q804.9 87.4 800.7 92.8Q796.6 98.1 789.2 100.1Q781.9 102.1 770.4 102.1ZM750.0 91.3H770.4Q777.7 91.3 782.7 90.6Q787.7 90.0 790.8 87.8Q793.9 85.7 795.6 81.3Q797.2 77.0 797.8 69.7Q798.4 62.4 798.4 51.3V48.7Q798.4 37.2 797.8 29.8Q797.2 22.4 795.6 18.1Q793.9 13.8 790.8 11.8Q787.7 9.8 782.7 9.3Q777.7 8.7 770.4 8.7H750.0Q742.7 8.7 737.7 9.3Q732.8 9.8 729.6 11.8Q726.5 13.8 724.9 18.1Q723.2 22.4 722.6 29.8Q722.0 37.2 722.0 48.7V51.3Q722.0 62.4 722.6 69.7Q723.2 77.0 724.9 81.3Q726.5 85.7 729.6 87.8Q732.8 90.0 737.7 90.6Q742.7 91.3 750.0 91.3Z M863.0 102.1Q851.6 102.1 844.2 100.1Q836.8 98.1 832.7 92.8Q828.6 87.4 826.9 77.4Q825.2 67.4 825.2 51.3V0.0H835.0V51.3Q835.0 62.4 835.6 69.7Q836.2 77.0 837.9 81.3Q839.6 85.7 842.7 87.8Q845.8 90.0 850.8 90.6Q855.8 91.3 863.0 91.3H881.4Q888.6 91.3 893.6 90.6Q898.5 90.0 901.7 87.8Q904.8 85.7 906.4 81.3Q908.1 77.0 908.7 69.7Q909.3 62.4 909.3 51.3V0.0H919.1V51.3Q919.1 67.4 917.4 77.4Q915.8 87.4 911.7 92.8Q907.5 98.1 900.2 100.1Q892.8 102.1 881.4 102.1Z"/></g></svg>
+    <span class="sr">Carriacou Logistics</span>
   </a>
 </header>
 <main>

diff --git a/carriacou/CRITIQUE.md b/carriacou/CRITIQUE.md
@@ -103,6 +103,12 @@ Budgets from the brief: JS is 5.7 KB gzipped against a 60 KB ceiling. Total tran
 
 Browser notes. Thermal scrub and route draw run on CSS scroll timelines in Chrome, Edge, and Safari 26; Firefox falls back to an IntersectionObserver with fifty thresholds writing one custom property, which is the only scroll-linked code path and contains no scroll listener. Hanging punctuation is Safari-only. `size-adjust` fallback metrics are honoured everywhere except older Safari, where the swap will show a small shift.
 
+## Logo
+
+The header, footer, 404, confirmation page, OG image, and favicon carry the Carriacou wordmark as inline SVG in `currentColor`, so it sets Deep Cold on Frost and Frost on Deep Cold with no second file. The header uses the word alone at 20 px cap height; the footer and OG image carry the full lockup with the tracked LOGISTICS line. The favicon is the wordmark's C with the Amber dock tab.
+
+The vectors in `assets/logo-lockup.svg` and `assets/logo-word.svg` are a typeset stand-in built from Michroma (SIL OFL), condensed and stroked to the supplied mark's measured proportions and weight, because the master file did not arrive as a file. The construction matches the mark closely; the R's leg and the C terminals will differ slightly. Replace the two `<path d="…">` values with the master outlines when the vector file arrives, or send the file and it is a five-minute swap. Do not ship the stand-in to print.
+
 ## What I would push back on
 
 - **Temperatures before anything else.** The page is designed around a fact it does not have. Get the three set points and ranges this week; nothing else moves the needle as much.
